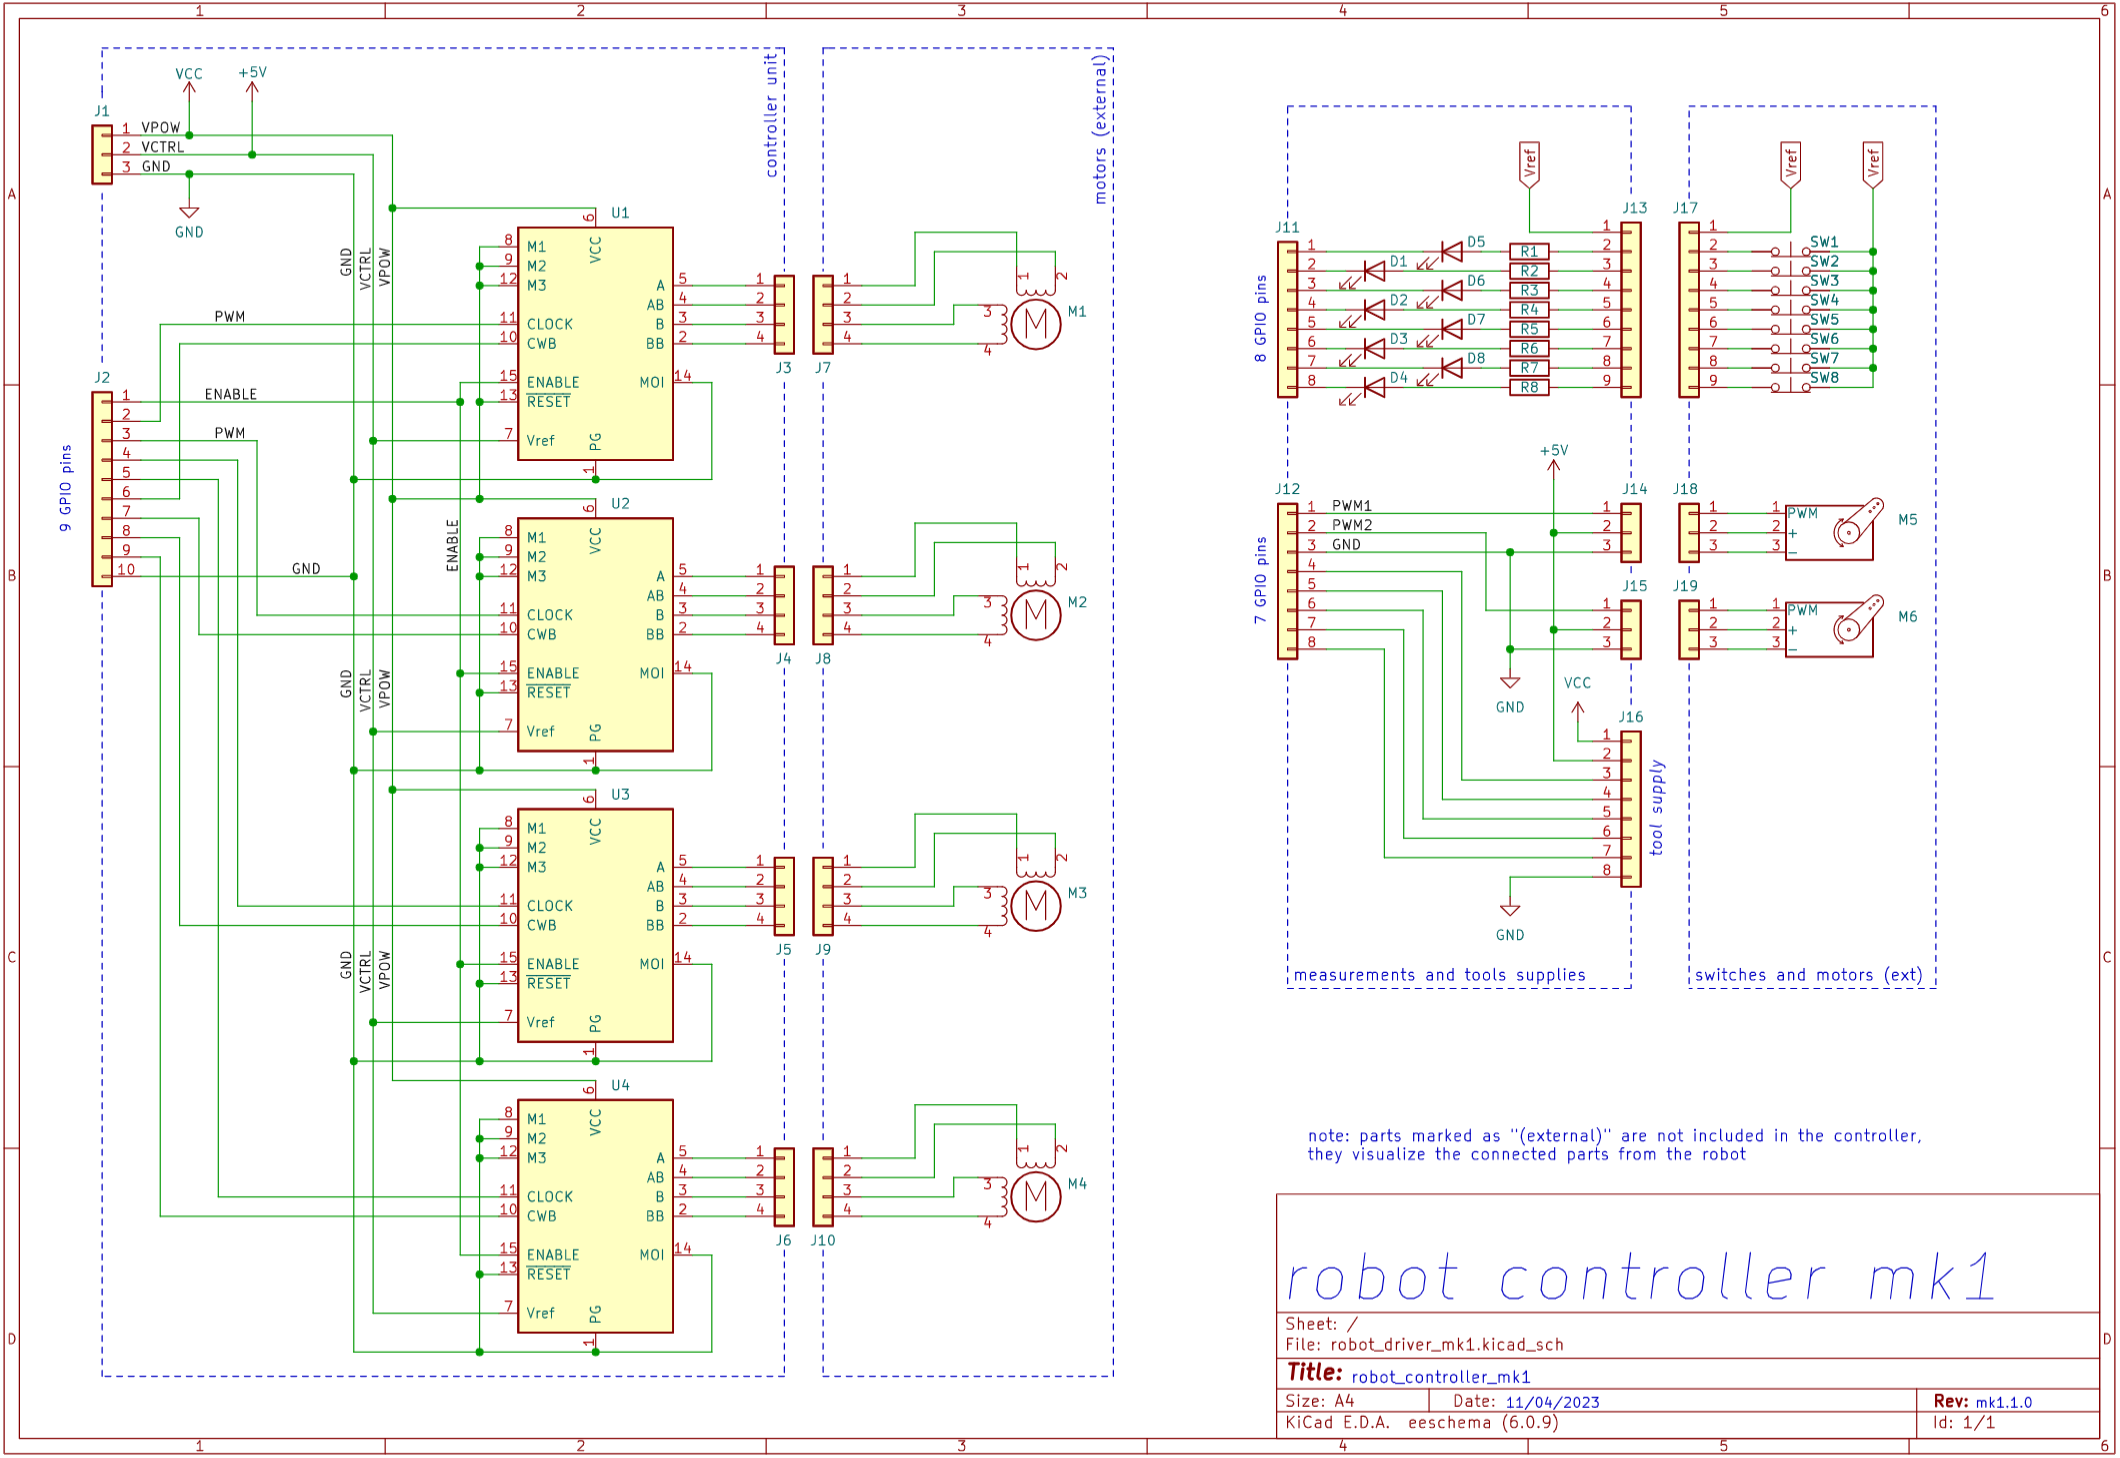
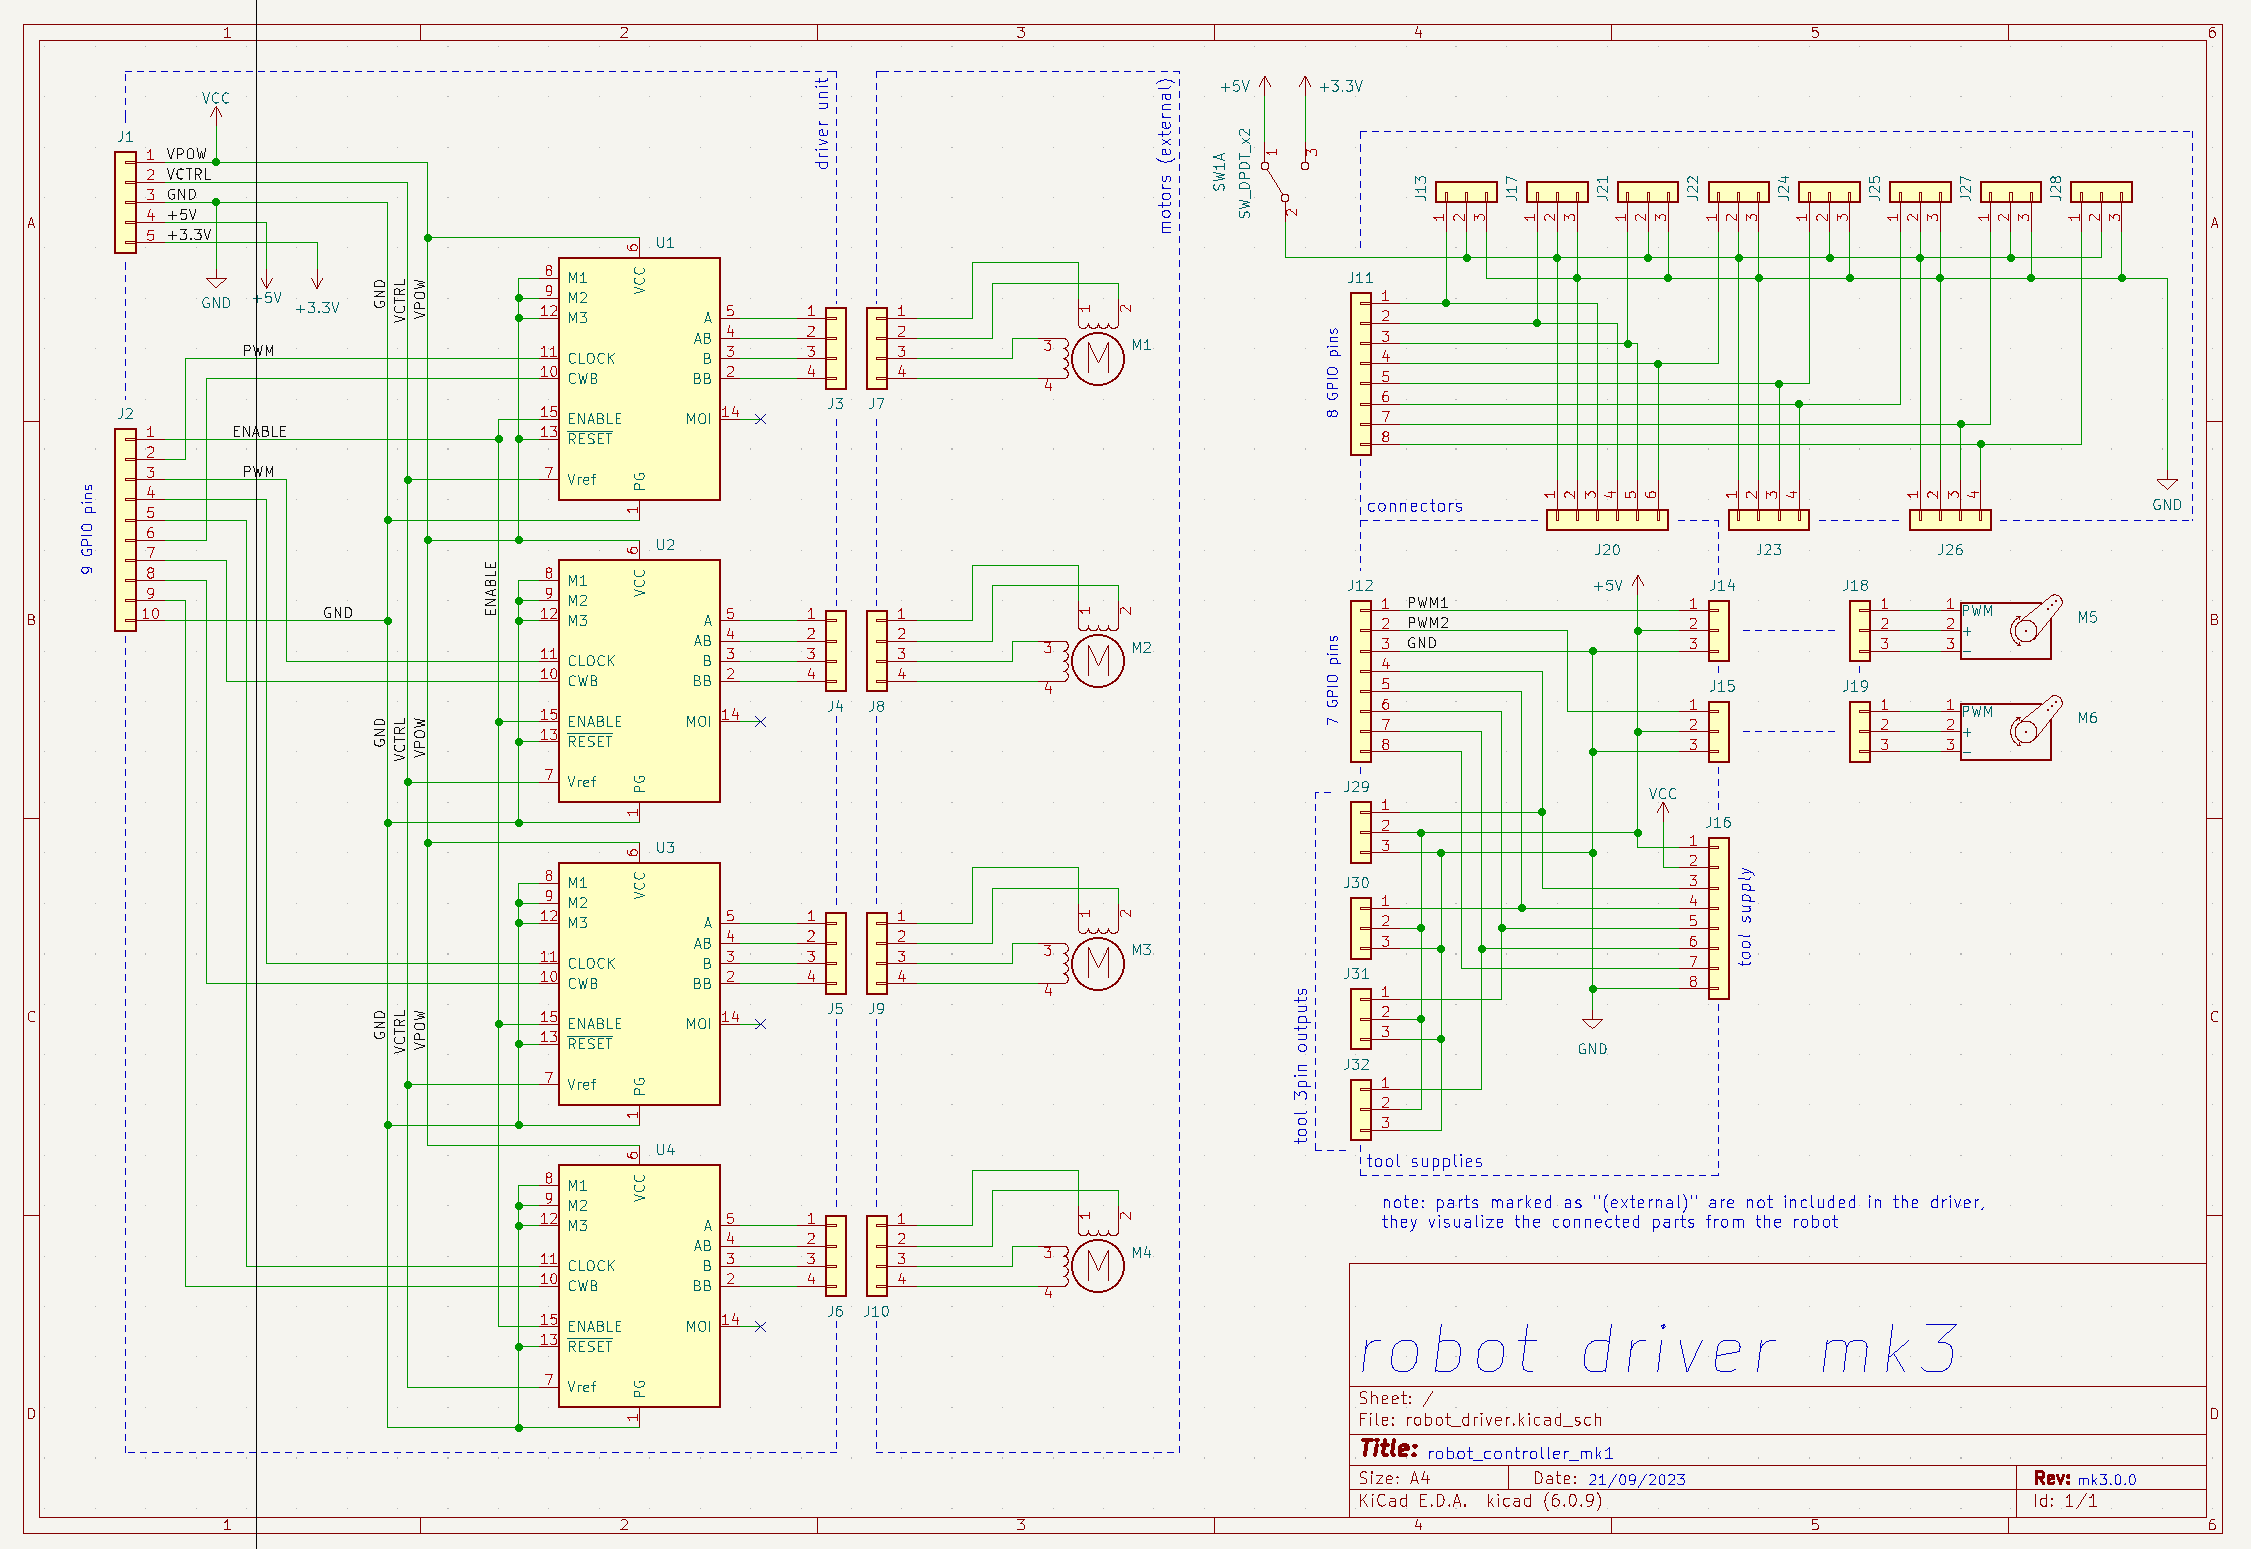
mk3 final

Changed region(s): [[0.0, 0.0, 1.0, 1.0], [0.6226, 0.7407, 0.9028, 0.8025], [0.8406, 0.6481, 0.9028, 0.679]]

diff --git a/changelog.md b/changelog.md
@@ -24,3 +24,6 @@
 - Fixed issues with KiCad symbol
 
 ## mk3.0.0/2023/09/21
+
+- Added more plugges and labeled them as "devices"
+- General updates for useability
